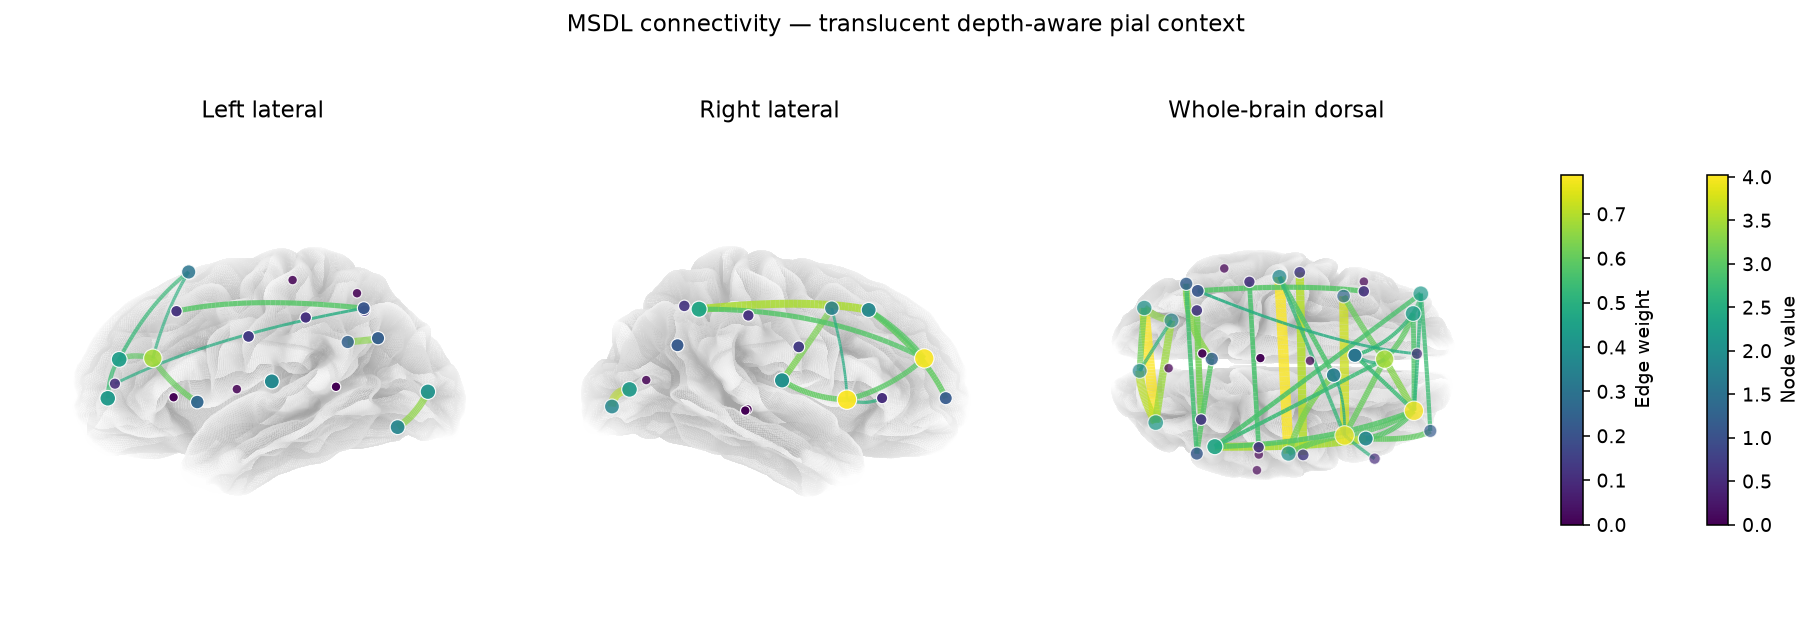
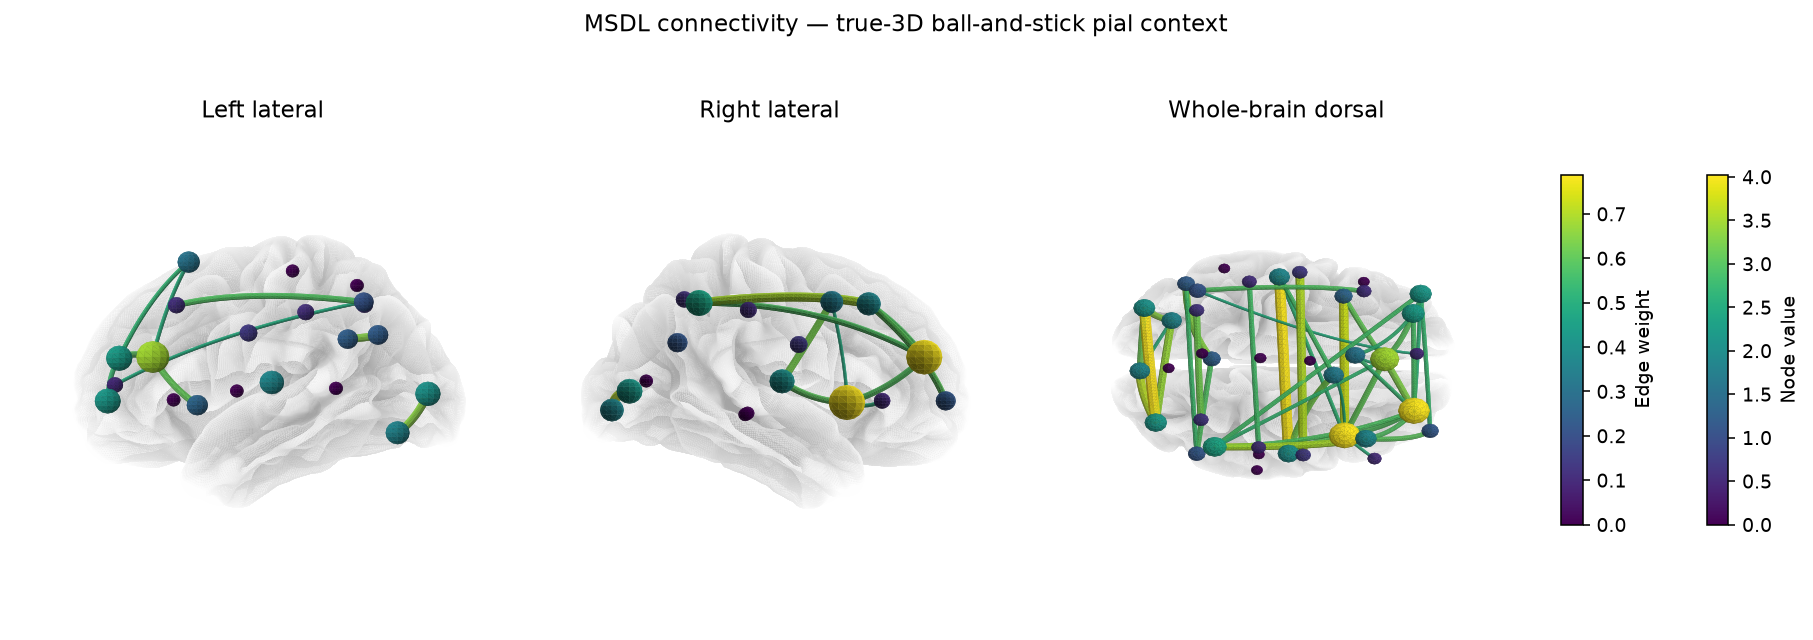
docs: show 3D static surface ball-and-stick previews

diff --git a/scripts/generate_acceptance_artifacts.py b/scripts/generate_acceptance_artifacts.py
@@ -30,6 +30,39 @@ from pyconnviz import (
 from pyconnviz.plotting.surface_nilearn import freesurfer_surface_paths
 
 
+def _static_geometry_audit(result: object, *, renderer: str) -> dict[str, object]:
+    figure = result.artist
+    axes = [axis for axis in figure.axes if getattr(axis, "name", None) == "3d"]
+    nodes = [
+        collection
+        for axis in axes
+        for collection in axis.collections
+        if collection.get_gid() == "pyconnviz-nodes"
+    ]
+    edges = [
+        collection
+        for axis in axes
+        for collection in axis.collections
+        if collection.get_gid() == "pyconnviz-edges"
+    ]
+    if len(nodes) != len(axes) or len(edges) != len(axes):
+        raise RuntimeError("static surface panels must contain one node and edge mesh")
+    node_diameters = np.concatenate([collection.diameters for collection in nodes])
+    return {
+        "render_mode": "ball-and-stick",
+        "renderer": renderer,
+        "panels": len(axes),
+        "node_collections": len(nodes),
+        "edge_collections": len(edges),
+        "node_mesh_triangles": sum(collection.mesh_triangle_count for collection in nodes),
+        "edge_mesh_triangles": sum(collection.mesh_triangle_count for collection in edges),
+        "node_diameter_range": [
+            float(np.min(node_diameters)),
+            float(np.max(node_diameters)),
+        ],
+    }
+
+
 def _farthest_vertices(coordinates: np.ndarray, count: int) -> np.ndarray:
     """Select deterministic, spatially distributed vertices."""
 
@@ -394,6 +427,16 @@ def generate_artifacts(outdir: str | Path) -> dict[str, object]:
     )
     manifest = {
         "backends": {name: _edge_tuples(result) for name, result in results.items()},
+        "static_surface_geometry": {
+            "surface_matplotlib": _static_geometry_audit(
+                results["surface_matplotlib"],
+                renderer="matplotlib-poly3d",
+            ),
+            "surface_nilearn": _static_geometry_audit(
+                results["surface_nilearn"],
+                renderer="nilearn-plot-img-on-surf+matplotlib-poly3d",
+            ),
+        },
         "surface_interactive_static_export": static_export,
         "directed_case": {
             "directed": directed.directed,

diff --git a/tests/test_acceptance_scripts.py b/tests/test_acceptance_scripts.py
@@ -81,6 +81,28 @@ def write_valid_fixture(root: Path) -> None:
                     "directed": True,
                     "edges": [[0, 1, 0.8], [1, 0, -0.3]],
                 },
+                "static_surface_geometry": {
+                    "surface_matplotlib": {
+                        "render_mode": "ball-and-stick",
+                        "renderer": "matplotlib-poly3d",
+                        "panels": 3,
+                        "node_collections": 3,
+                        "edge_collections": 3,
+                        "node_mesh_triangles": 100,
+                        "edge_mesh_triangles": 100,
+                        "node_diameter_range": [6.0, 16.0],
+                    },
+                    "surface_nilearn": {
+                        "render_mode": "ball-and-stick",
+                        "renderer": "nilearn-plot-img-on-surf+matplotlib-poly3d",
+                        "panels": 6,
+                        "node_collections": 6,
+                        "edge_collections": 6,
+                        "node_mesh_triangles": 100,
+                        "edge_mesh_triangles": 100,
+                        "node_diameter_range": [6.0, 16.0],
+                    },
+                },
             }
         ),
         encoding="utf-8",
@@ -126,6 +148,20 @@ def test_checker_rejects_cross_backend_edge_mismatch(tmp_path: Path) -> None:
     manifest["backends"]["circle"] = [[0, 1, 9.0]]
     path.write_text(json.dumps(manifest), encoding="utf-8")
     with pytest.raises(AcceptanceError, match="edge tuples differ"):
+        check_artifacts(root, strict=False)
+
+
+def test_checker_rejects_legacy_static_surface_geometry(tmp_path: Path) -> None:
+    root = tmp_path / "legacy-static"
+    write_valid_fixture(root)
+    path = root / "edge_manifest.json"
+    manifest = json.loads(path.read_text(encoding="utf-8"))
+    manifest["static_surface_geometry"]["surface_matplotlib"]["render_mode"] = (
+        "screen-space"
+    )
+    path.write_text(json.dumps(manifest), encoding="utf-8")
+
+    with pytest.raises(AcceptanceError, match="ball-and-stick"):
         check_artifacts(root, strict=False)
 
 

diff --git a/scripts/check_acceptance_artifacts.py b/scripts/check_acceptance_artifacts.py
@@ -126,6 +126,34 @@ def _check_manifest(path: Path) -> int:
             raise AcceptanceError(
                 f"Prepared edge tuples differ between surface_matplotlib and {name}"
             )
+    static_geometry = manifest.get("static_surface_geometry", {})
+    expected_static = {
+        "surface_matplotlib": ("matplotlib-poly3d", 3),
+        "surface_nilearn": ("nilearn-plot-img-on-surf+matplotlib-poly3d", 6),
+    }
+    if set(static_geometry) != set(expected_static):
+        raise AcceptanceError("static surface geometry records are incomplete")
+    for name, (renderer, panels) in expected_static.items():
+        record = static_geometry[name]
+        if record.get("render_mode") != "ball-and-stick":
+            raise AcceptanceError(f"{name} must record ball-and-stick rendering")
+        if record.get("renderer") != renderer:
+            raise AcceptanceError(f"{name} renderer must be {renderer}")
+        if record.get("panels") != panels:
+            raise AcceptanceError(f"{name} must record {panels} panels")
+        if record.get("node_collections") != panels:
+            raise AcceptanceError(f"{name} must contain one node mesh per panel")
+        if record.get("edge_collections") != panels:
+            raise AcceptanceError(f"{name} must contain one edge mesh per panel")
+        for field in ("node_mesh_triangles", "edge_mesh_triangles"):
+            if not isinstance(record.get(field), int) or record[field] <= 0:
+                raise AcceptanceError(f"{name} must contain positive {field}")
+        diameters = record.get("node_diameter_range")
+        if not isinstance(diameters, list) or len(diameters) != 2 or not np.allclose(
+            diameters,
+            [6.0, 16.0],
+        ):
+            raise AcceptanceError(f"{name} must record the 6-16 mm node diameters")
     directed = manifest.get("directed_case", {})
     directed_edges = _canonical_edges(directed.get("edges", []))
     if directed.get("directed") is not True:

diff --git a/tests/test_packaging.py b/tests/test_packaging.py
@@ -114,6 +114,39 @@ def test_readmes_document_true_3d_plotly_ball_and_stick(
     assert physical_size_text in readme
 
 
+@pytest.mark.parametrize(
+    ("filename", "description"),
+    (
+        (
+            "README.md",
+            "Matplotlib and native Nilearn use true-3D ball-and-stick",
+        ),
+        (
+            "README.zh-CN.md",
+            "Matplotlib 和原生 Nilearn 使用真正的三维 ball-and-stick",
+        ),
+    ),
+)
+def test_readmes_document_true_3d_static_surface_geometry(
+    filename: str,
+    description: str,
+) -> None:
+    readme = (ROOT / filename).read_text(encoding="utf-8")
+    normalized = " ".join(readme.split())
+
+    assert description in normalized
+    assert "Poly3DCollection" in readme
+    assert "6\u201316" in readme
+
+
+def test_msdl_gallery_generator_names_true_3d_static_geometry() -> None:
+    source = (ROOT / "scripts" / "upstream_validation.py").read_text(encoding="utf-8")
+
+    assert "MSDL connectivity — true-3D ball-and-stick pial context" in source
+    assert "MSDL connectivity — true-3D native Nilearn context" in source
+    assert "translucent depth-aware pial context" not in source
+
+
 def test_readme_has_quickstart_gallery_all_backends_and_release_commands() -> None:
     readme = (ROOT / "README.md").read_text(encoding="utf-8")
 

diff --git a/scripts/upstream_validation.py b/scripts/upstream_validation.py
@@ -1269,7 +1269,7 @@ def run_surface_case(
         views="paper",
         node_overlay="none",
         depth_cue=True,
-        title="MSDL connectivity — translucent depth-aware pial context",
+        title="MSDL connectivity — true-3D ball-and-stick pial context",
         figsize=(13.0, 5.0),
         dpi=140,
         rasterize_surface=True,
@@ -1290,7 +1290,7 @@ def run_surface_case(
         symmetric_cbar="auto",
         inflate=False,
         depth_cue=True,
-        title="MSDL connectivity — translucent native Nilearn context",
+        title="MSDL connectivity — true-3D native Nilearn context",
         figsize=(10.0, 12.0),
         dpi=120,
         rasterize_surface=True,
@@ -1318,8 +1318,8 @@ def run_surface_case(
     make_labeled_montage(
         (matplotlib_png, native_png),
         (
-            "PyConnviz depth-aware context - 3 views",
-            "PyConnviz + Nilearn translucent context - 6 panels",
+            "PyConnviz true-3D ball-and-stick - 3 views",
+            "PyConnviz + Nilearn true-3D ball-and-stick - 6 panels",
         ),
         comparison_png,
         columns=1,

diff --git a/README.md b/README.md
@@ -40,7 +40,7 @@ use real MSDL connectivity projected to fsaverage.
   </thead>
   <tbody>
     <tr>
-      <td><img src="docs/images/surface-matplotlib.png" width="100%" alt="PyConnviz depth-aware Matplotlib surface connectome with left, right, and dorsal views"></td>
+      <td><img src="docs/images/surface-matplotlib.png" width="100%" alt="PyConnviz true-3D Matplotlib ball-and-stick surface connectome with left, right, and dorsal views"></td>
     </tr>
   </tbody>
 </table>
@@ -53,7 +53,7 @@ use real MSDL connectivity projected to fsaverage.
   </thead>
   <tbody>
     <tr>
-      <td><img src="docs/images/surface-nilearn.png" width="100%" alt="PyConnviz translucent native Nilearn surface connectome with lateral, medial, and dorsal views"></td>
+      <td><img src="docs/images/surface-nilearn.png" width="100%" alt="PyConnviz true-3D native Nilearn ball-and-stick surface connectome with lateral, medial, and dorsal views"></td>
     </tr>
   </tbody>
 </table>
@@ -105,9 +105,11 @@ Choose the view for the question being answered:
    when valid MNI coordinates are available. It avoids cortical occlusion and
    makes the complete whole-brain graph easiest to compare.
 3. Matplotlib and native Nilearn surfaces are **supplementary fixed-view
-   anatomical context**. Their translucent cortex and camera-depth alpha cue
-   improve spatial reading, but a fixed 2D projection is not a physical tube
-   rendering or a substitute for the rotatable Plotly view.
+   anatomical context**. Matplotlib and native Nilearn use true-3D
+   ball-and-stick `Poly3DCollection` geometry: shaded spheres and tubes retain
+   physical dimensions under each camera, while the translucent cortex keeps
+   internal connections visible. Their fixed projections remain supplementary
+   to the rotatable Plotly view.
 
 The corresponding calls, in recommended order, are:
 
@@ -510,14 +512,16 @@ Plotly retains the interactive style defaults (`0.24 / 0.20 / 0.32` for
 `paper / soft / dark`). Matplotlib and native Nilearn use more transparent
 static fixed-view defaults (`0.08 / 0.08 / 0.18`) so internal connections
 survive a fixed projection. Their default edge visibility budgets are also
-renderer-specific: paper uses alpha `0.95`, a `1.4–5.4` point width range, and
-a `0.70` minimum projected-depth factor. Explicit `edge_alpha`,
-`edge_width_range`, and `cortex_alpha` always override these visual defaults.
+renderer-specific: paper uses alpha `0.95` and a `1.4–5.4` mm tube-diameter
+range. Static node spheres default to a `6–16` mm diameter range. Explicit
+`edge_alpha`, `edge_width_range`, `node_size_range`, and `cortex_alpha` always
+override these visual defaults.
 
-Both fixed-view engines default to `depth_cue=True`: each prepared curve is
-divided into display segments and only its alpha is modulated by projected
-camera depth. Nearer segments remain stronger and farther segments become
-fainter, but the raised floor prevents valid edges from disappearing at README
+Both fixed-view engines default to `depth_cue=True`: deterministic face
+lighting is applied to the physical sphere and tube triangles. Their alpha is
+not modulated by projected camera depth, so transparency does not encode an
+additional data variable. Setting `depth_cue=False` disables face lighting
+without returning to screen-space markers or lines.
 thumbnail scale. Edge color still encodes sign/magnitude, edge width still
 encodes absolute weight, and every panel retains its complete
 hemisphere-scoped edge set. Set `depth_cue=False` for uniform line alpha.
@@ -736,12 +740,10 @@ anatomical registration accuracy.
 
 ## Known v0.1 limits
 
-Matplotlib and native Nilearn edges are 3D lines rather than physical tubes.
-Their view-dependent alpha is an optical depth cue only; it does not perform
-physical mesh occlusion and must not be interpreted as an additional data
-variable. Single-hemisphere panels omit cross-hemisphere edges; whole-brain
-panels include them. Plotly merges nodes and connections into two `Mesh3d`
-traces, but dense graphs still produce large HTML files because tube geometry
-grows with the edge count and `edge_samples`. The first release focuses on
-cortical ROIs and does not provide complete mixed-source or subcortical
-surface rendering.
+Matplotlib and native Nilearn now use physical triangle meshes, but their output
+is still a fixed projection and Matplotlib performs collection-level painter
+ordering rather than interactive WebGL occlusion. Single-hemisphere panels
+omit cross-hemisphere edges; whole-brain panels include them. Dense graphs
+produce larger files in every surface engine because tube geometry grows with
+the edge count and `edge_samples`. The first release focuses on cortical ROIs
+and does not provide complete mixed-source or subcortical surface rendering.
